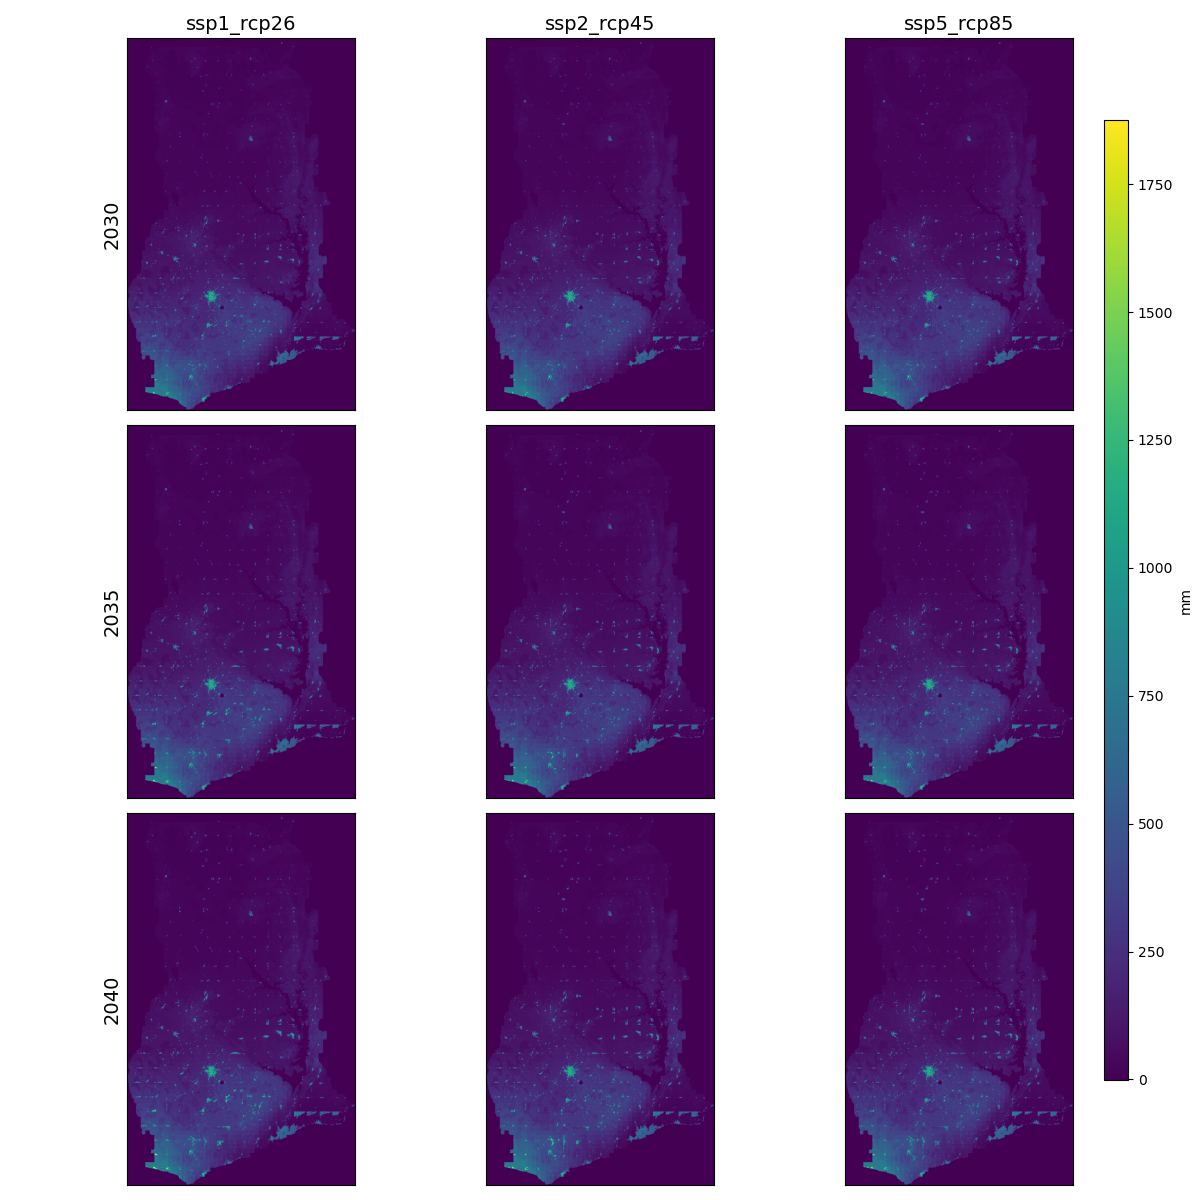
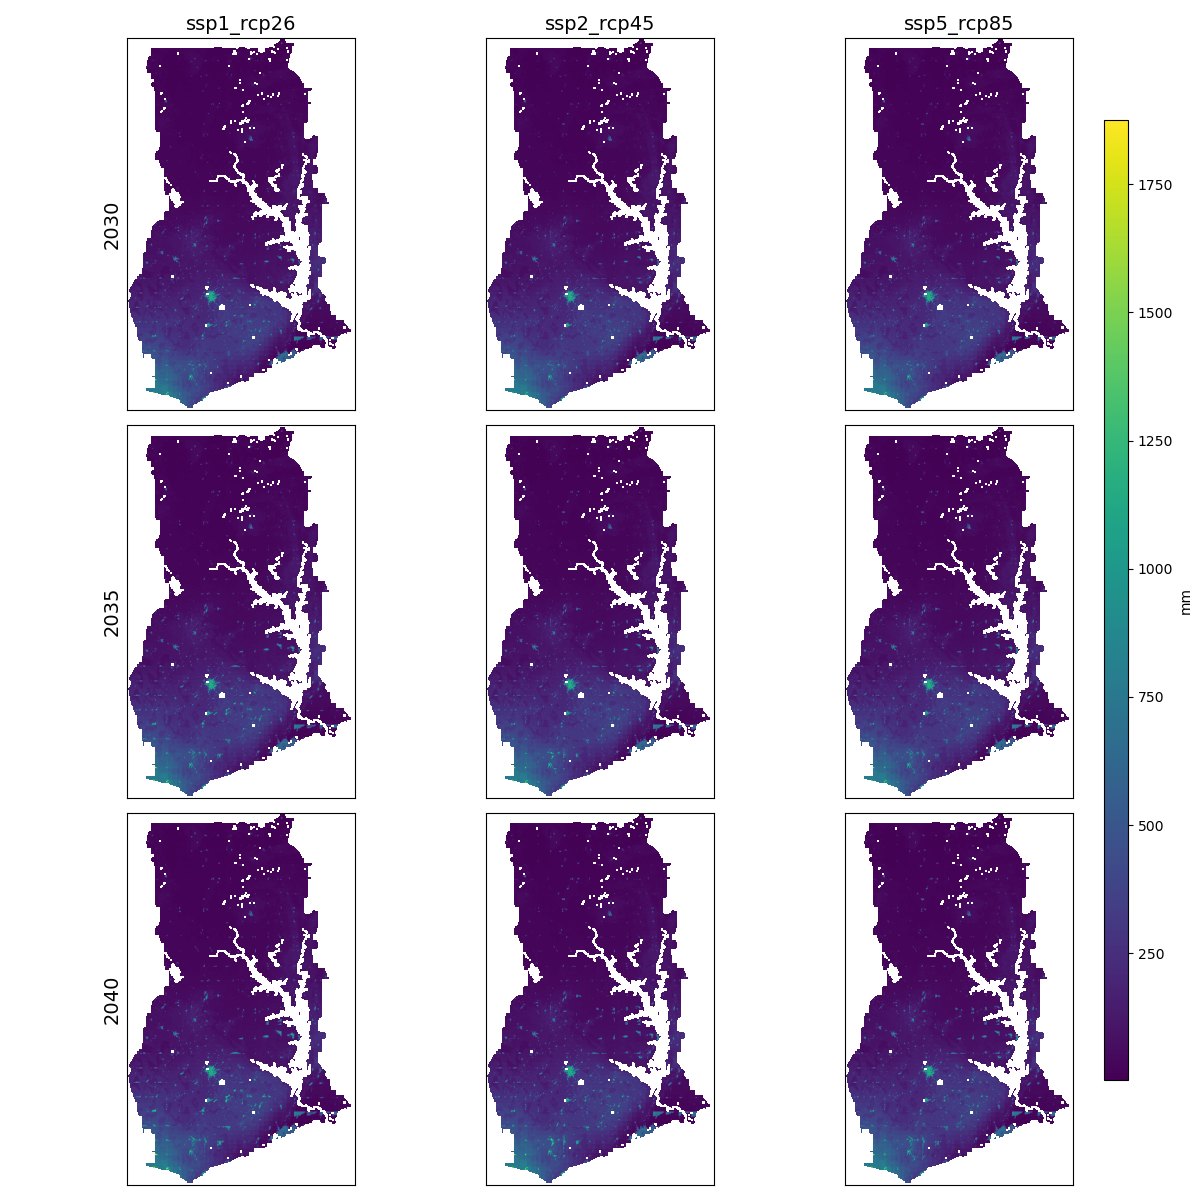
Dropped missing values from plots

diff --git a/invest/invest_plots.py b/invest/invest_plots.py
@@ -1,6 +1,7 @@
 import os
 import pygeoprocessing as pygeo
 import matplotlib.pyplot as plt 
+import numpy as np
 
 
 def generate_plot(model, file_name, unit):
@@ -22,6 +23,10 @@ def generate_plot(model, file_name, unit):
             # CARBON
             raster_path = os.path.join(invest_output_path, model, f'{scenario}_{year}', file_name)
             raster_array = pygeo.raster_to_numpy_array(raster_path)
+
+            # Replace 0 values with numpy.nan
+            raster_array[raster_array <= 0] = np.nan
+            raster_array[raster_array > 1000000000] = np.nan
 
             # Plot the raster in the appropriate subplot
             im = axes[i, j].imshow(raster_array)

diff --git a/README.md b/README.md
@@ -112,7 +112,7 @@ This project requires a proper installation of the earth_economy_devstack and as
 
 In addition to this project, I developed other code for APEC 8601: Natural Resource Economics. 
 
-- [Problem Set 1](problem_sets/apec8601_mbraak_ps1.pdf)
-- [Problem Set 2](problem_sets/problem_set_2_v2_mbraak.ipynb)
-- [Problem Set 3](problem_sets/apec8601_mbraak_ps3.pdf)
-- [Problem Set 4](problem_sets/apec8601_mbraak_ps4.pdf)
+- [Problem Set 1](problem_sets/apec8601_mbraak_ps1.pdf): Dynamic optimization
+- [Problem Set 2](problem_sets/problem_set_2_v2_mbraak.ipynb): DICE and MAGICC model
+- [Problem Set 3](problem_sets/apec8601_mbraak_ps3.pdf): Dynamic optimization
+- [Problem Set 4](problem_sets/apec8601_mbraak_ps4.pdf): InVEST Scenic Quality model
